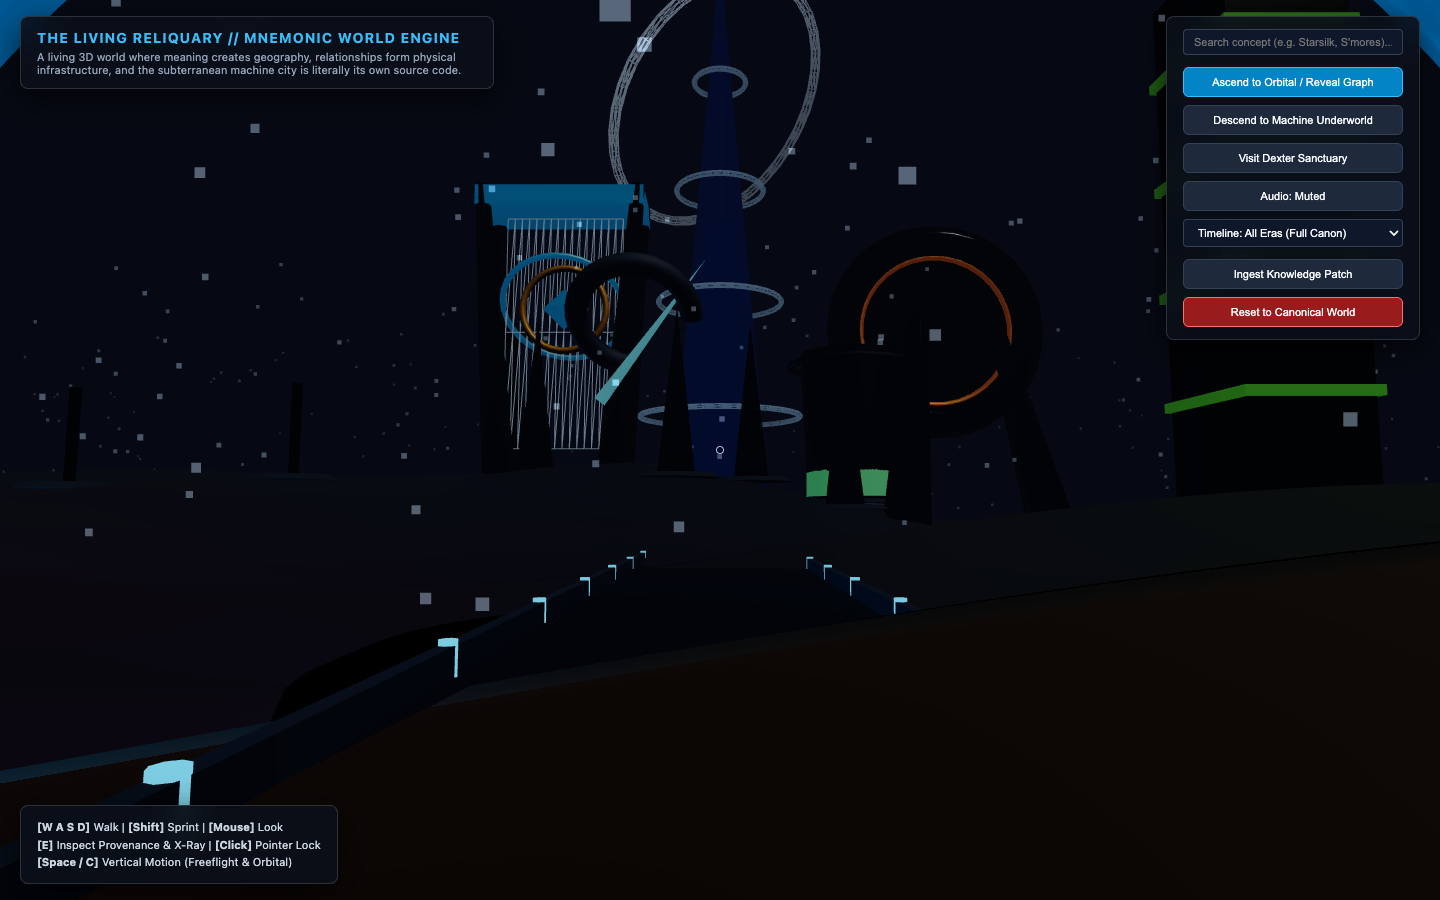
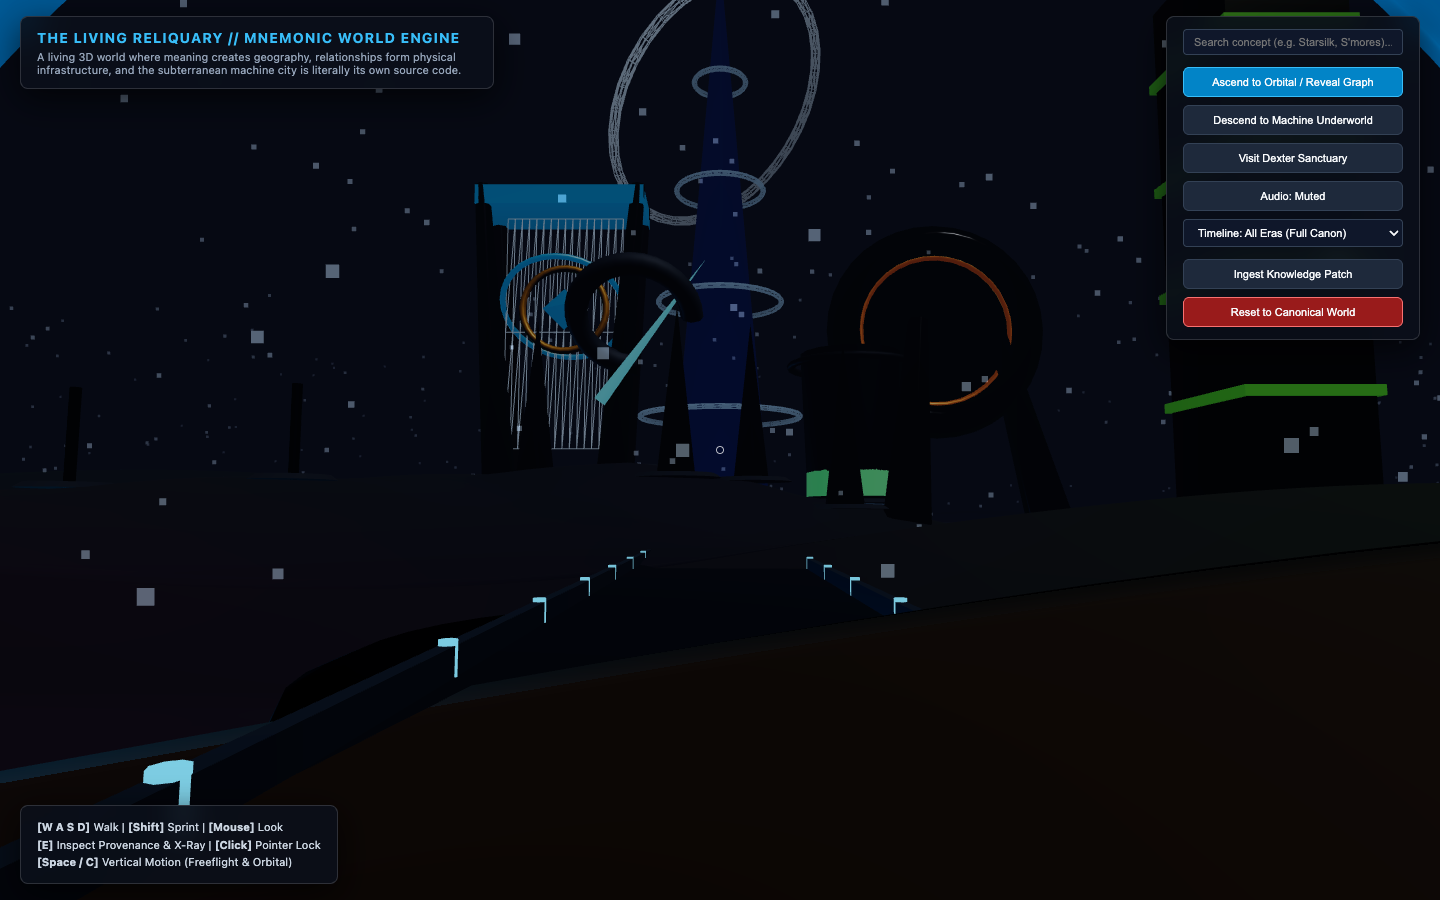
refine(loop-09): prefers-reduced-motion kinetic suppression and pointer-lock safety

diff --git a/src/world/MnemonicEngine.ts b/src/world/MnemonicEngine.ts
@@ -301,26 +301,28 @@ export class MnemonicEngine {
     // Update weather
     this.weather.update(dt);
 
-    // Update kinetic landmark animations
+    // Update kinetic landmark animations (respects quality reduced motion setting)
     const time = now * 0.001;
-    for (const landmark of this.landmarks.values()) {
-      const ring1 = landmark.getObjectByName('rotating_ring_1');
-      if (ring1) ring1.rotation.z = time * 0.6;
-      const ring2 = landmark.getObjectByName('rotating_ring_2');
-      if (ring2) ring2.rotation.x = time * 0.4;
-      const kineticCore = landmark.getObjectByName('kinetic_core');
-      if (kineticCore) kineticCore.rotation.y = time * 0.8;
-      const katamariSphere = landmark.getObjectByName('katamari_sphere');
-      if (katamariSphere) katamariSphere.rotation.y = time * 1.2;
-      const crown = landmark.getObjectByName('arcane_crown');
-      if (crown) {
-        crown.rotation.y = time * 0.9;
-        crown.position.y = 17 + Math.sin(time * 2) * 0.5;
+    if (!this.rendererHost.quality.reducedMotion) {
+      for (const landmark of this.landmarks.values()) {
+        const ring1 = landmark.getObjectByName('rotating_ring_1');
+        if (ring1) ring1.rotation.z = time * 0.6;
+        const ring2 = landmark.getObjectByName('rotating_ring_2');
+        if (ring2) ring2.rotation.x = time * 0.4;
+        const kineticCore = landmark.getObjectByName('kinetic_core');
+        if (kineticCore) kineticCore.rotation.y = time * 0.8;
+        const katamariSphere = landmark.getObjectByName('katamari_sphere');
+        if (katamariSphere) katamariSphere.rotation.y = time * 1.2;
+        const crown = landmark.getObjectByName('arcane_crown');
+        if (crown) {
+          crown.rotation.y = time * 0.9;
+          crown.position.y = 17 + Math.sin(time * 2) * 0.5;
+        }
+        const scaleBeam = landmark.getObjectByName('scale_beam');
+        if (scaleBeam) scaleBeam.rotation.z = Math.sin(time * 1.5) * 0.08;
+        const gyro = landmark.getObjectByName('gyro_ring_1');
+        if (gyro) gyro.rotation.x = time * 1.5;
       }
-      const scaleBeam = landmark.getObjectByName('scale_beam');
-      if (scaleBeam) scaleBeam.rotation.z = Math.sin(time * 1.5) * 0.08;
-      const gyro = landmark.getObjectByName('gyro_ring_1');
-      if (gyro) gyro.rotation.x = time * 1.5;
     }
 
     // Diegetic Proximity Zone Triggers:

diff --git a/src/player/PlayerController.ts b/src/player/PlayerController.ts
@@ -41,7 +41,11 @@ export class PlayerController {
   private bindEvents() {
     this.domElement.addEventListener('click', () => {
       if (!this.isLocked) {
-        this.domElement.requestPointerLock?.();
+        try {
+          this.domElement.requestPointerLock?.();
+        } catch {
+          // Graceful fallback when pointer lock is unavailable or rejected
+        }
       }
     });
 
